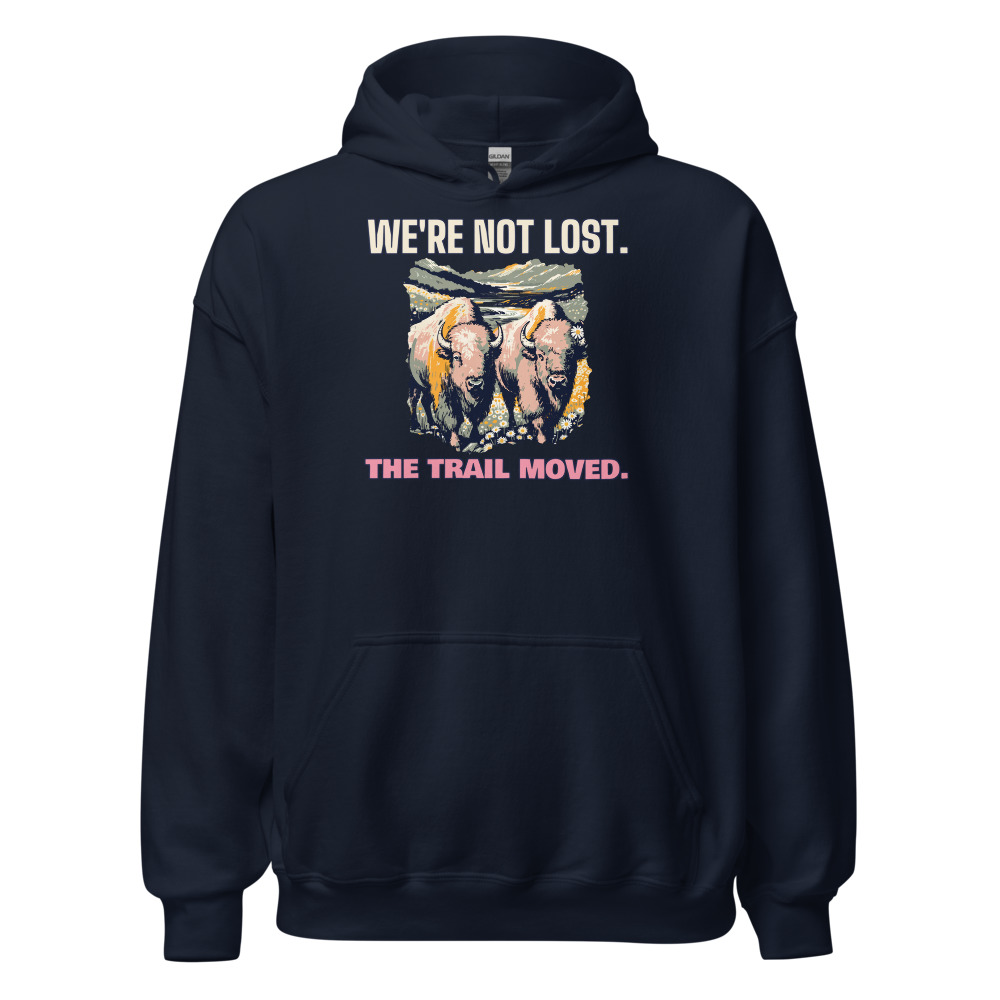
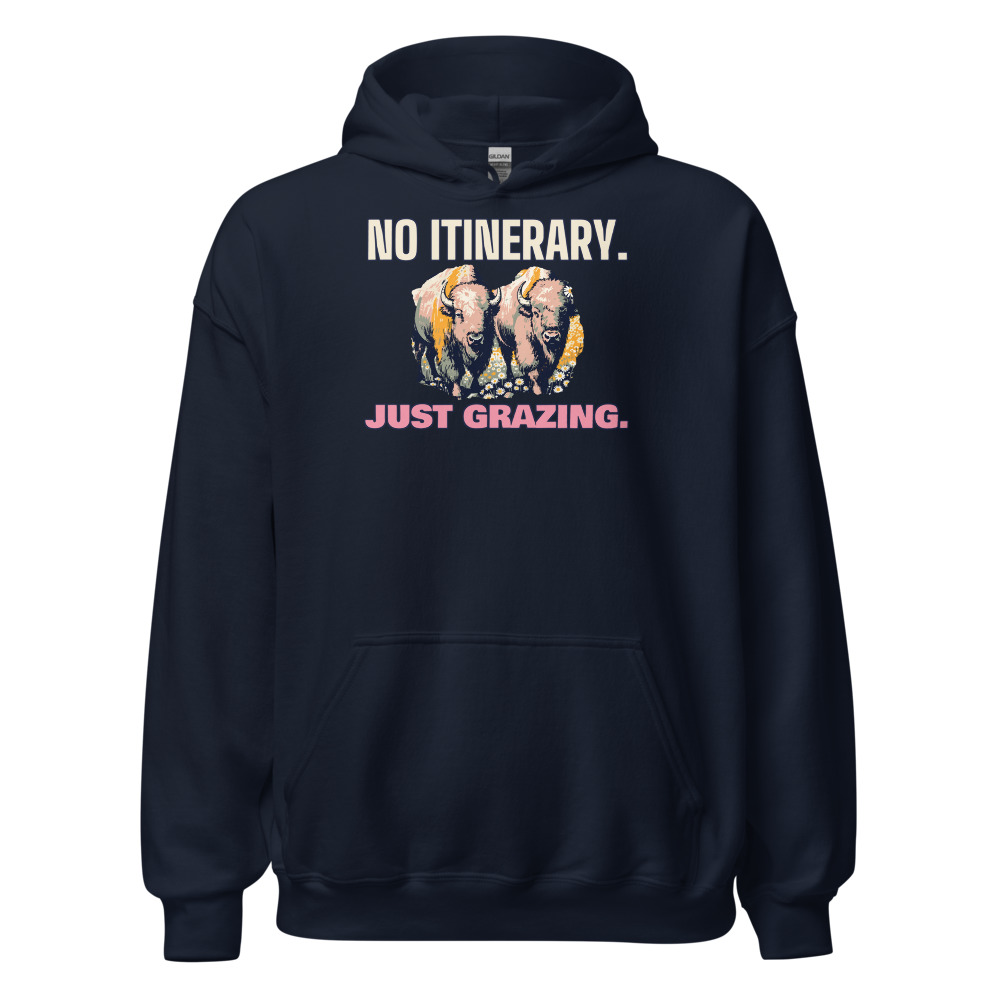
[C] review 508 bison hoodie (round 3)

Changed region(s): [[0.372, 0.217, 0.62, 0.496]]

diff --git a/designs/c508/cut4.py b/designs/c508/cut4.py
@@ -1,0 +1,12 @@
+import numpy as np, cv2
+from PIL import Image, ImageDraw
+im=Image.open('designs/c508/art_raw.png').convert('RGBA'); W,H=im.size; s=W/1836.0
+P=[(40,900),(60,700),(150,610),(300,500),(450,430),(600,405),(700,425),(790,520),(850,640),(900,640),(1000,600),(1100,500),(1200,440),(1300,425),(1420,450),(1550,520),(1650,600),(1720,760),(1800,1000),(1830,1500),(1830,1836),(40,1836)]
+m=Image.new('L',(W,H),0); ImageDraw.Draw(m).polygon([(x*s,y*s) for x,y in P],fill=255)
+a=np.array(im); a[...,3]=np.where(np.array(m)>0,a[...,3],0)
+# drop cream sticker border pixels & specks
+r,g,b=a[...,0].astype(int),a[...,1].astype(int),a[...,2].astype(int)
+al=(a[...,3]>40).astype(np.uint8); n,l,st,_=cv2.connectedComponentsWithStats(al,8)
+for i in range(1,n):
+    if st[i,4]<8000: a[l==i,3]=0
+Image.fromarray(a).save('designs/c508/art_cut4.png'); print(W,H)

diff --git a/designs/c508/make4.py b/designs/c508/make4.py
@@ -1,0 +1,9 @@
+import sys; sys.path.insert(0,'.')
+from designs.lib import *
+W=3142
+art=Image.open('designs/c508/art_rag4.png').convert('RGBA'); art=art.crop(art.getbbox()); art=art.resize((int(art.width*1.2),int(art.height*1.2)),Image.LANCZOS)
+DK=(26,34,66,255); PINK=(244,150,170,255); DPINK=(184,62,98,255); GOLD=(236,170,52,255)
+for tag,c1,k1,c2,k2,bg in (('sand',DK,CREAM,DPINK,CREAM,(214,196,160,255)),('navy',CREAM,DK,PINK,DK,(38,50,88,255))):
+    h1=line("NO ITINERARY.",'big',0.97,W,c1,k1,kw=27); h2=line("JUST GRAZING.",'bowlby',0.985,W,c2,k2,kw=29)
+    print(tag,'headline px',h1.width,'punch px',h2.width,'heights',h1.height,h2.height,'art',art.size)
+    out=lockup(art,W,[h1],[h2],f'508-v3-graze-{tag}',{tag:bg}); print(out.size,out.height/out.width)

diff --git a/docs/pipeline/508-national-park-hoodie-two-queens-roaming.md b/docs/pipeline/508-national-park-hoodie-two-queens-roaming.md
@@ -1,4 +1,4 @@
-status: REDO
+status: REVIEW
 lane: C
 type: new
 id: 508
@@ -36,3 +36,4 @@ kd: 34
 - 2026-10-18 17:22 UTC director: QUALITY RESET grade C (new line + type), REDO. The product stays ACTIVE (same handle, URL, title keyword). 1. Line (R3.12, quality-reset 'Lines'): "TWO QUEENS ROAMING / our natural environment": Describes picture, insider sentiment; no laugh. Write 5 candidates, keep the one a stranger laughs at in 3 seconds without backstory; kill lines that only describe the picture; if none of the 5 is funny, PARK it. 2. Quality reset type bar (docs/backlog/quality-reset.md, 'The new bar'): headline at least 90% of the art width, heavy, colors pulled from the art; second line at least 45% of the headline's height, never a thin script on a dark or mid garment; use the lettering as a shape (arch, stacked lockup, words breaking into the art), not a plain bar above and a script line below; no font used on more than 1 in 6 of the last 30 designs. 3. Keep the art if it carries the new line, else one new illustration (R4/R5). New print means a new cover per R6.10, copy line one rewritten for the new joke (R8.3), and a fresh review sheet (R7.7). While quality-reset.md says PAUSED, only lane A builds, and only the samples step 2 names.
 - 2026-10-20 09:01 UTC builder [C]: REDO new line + type (grade C; title card 7i done). 5 candidates, compared with Politely, No., Main Character, Background Energy and Plot Twist: I Stayed In: "WE'RE NOT LOST. / THE TRAIL MOVED." (kept: two friends who never admit a wrong turn, the bison pair is the duo; works for a girls' trip), "TWO QUEENS ROAMING / our natural environment" (old), "WE CAME FOR THE VIEW. WE STAYED FOR THE SNACKS.", "WALK IT OFF. WITH ME.", "THE HERD HAS OPINIONS". Same bison-and-wildflowers art at 130%; its rounded-rectangle card edge (it was a clean framed rectangle in the old print) is carved into worn, uneven edges with designs/rough2.py (depth 110) so no panel reads at phone size (R4.1). Measured ink widths (card 7h): headline WE'RE NOT LOST. 3042 px / punch THE TRAIL MOVED. 3102 px (102%). Big Shoulders Display Black headline, Bowlby One punch. Light-file (R5.3.8): Sand file 1090268565 (headline navy with a cream keyline, punch berry pink), Navy file 1090268624 (headline cream with a navy keyline, punch dusty rose); docs/print-files/508-v2-trail-sand.png / -navy.png; print 3142 x 3043, FW 1500 TOP 0 (about 1,450 px), 12/12 relinked (verified on the API). 2 fronts replaced in place, read at phone size. Title set to "Women's National Park – We're Not Lost, the Trail Moved Hoodie" (handle unchanged); copy, FAQ ink sentence and SEO rewritten; handle in retired-covers.json. Plain product shot. fal $0.
 - 2026-10-20 09:20 UTC director: REDO from docs/review/508.jpg. 1) R13.3 / builder card 7j: THE TRAIL MOVED. copies #503's live punch THE TREES MOVED. (same 'it moved, not me' excuse). Write five new lines for the two bison (the old Two Queens Roaming angle: two women, a road trip, bison traffic); none ending in MOVED, SORRY or BOOKED. 2) R4.1: the bison meadow is cut as a square block with straight sides; on Sand it reads as a photo panel. Cut the scene to the two bison and the flowers in front of them, let the sky and hills go, ragged edges on every side (scripts/ragged-edge.py).
+- 2026-10-20 12:50 UTC builder [C]: REDO round 3 per the director's 09:20 note. (1) Line: five new lines for the two bison, none ending in MOVED/SORRY/BOOKED and not reusing #510's bison traffic: 'NO ITINERARY. / JUST GRAZING.' (kept: two friends on a park trip with no plan, the bison are literally grazing), 'GIRLS' TRIP. / NO ONE IS DRIVING.', 'OUR HERD. / OUR RULES.', 'WE'RE THE TRAFFIC.', 'THE HERD HAS OPINIONS'. Grep of docs/pipeline for 'no itinerary' and 'just grazing': no other product. (2) R4.1: bison meadow cut to the two bison and the flowers in front (sky, mountains and river removed, designs/c508/cut4.py), outer edge worn on every side with rough2 depth 90; no block at phone size on Sand or Navy. Ink widths (card 7h): headline NO ITINERARY. 3027 px / punch JUST GRAZING. 3097 px (102%). Light-file: Sand file 1090324523 (headline navy with cream keyline, punch berry), Navy file 1090324555 (cream/dusty rose); docs/print-files/508-v3-graze-sand.png / -navy.png; print 3142 x 2460, FW 1500 TOP 0, 12/12 relinked (verified on the API). Fronts replaced in place. Title set to 'Women's National Park – No Itinerary, Just Grazing Hoodie' (handle unchanged), copy, FAQ and SEO rewritten for the new line, alts updated. fal $0.

diff --git a/docs/intake-log.md b/docs/intake-log.md
@@ -1,6 +1,7 @@
 2026-10-20 11:35 UTC — [B] Builder run (cold-weather): no buildable cold-weather item. Only #498 embroidered crew is REDO and its note is unchanged since the 06:20 release (R3.14 re-grade needed from the director); every other lane B item is a tee. Nothing built, fal $0. Lock released.
 2026-10-20 11:40 UTC — [D] Director run: inbox nothing new. 6 LIVE (cap): #284 #319 #332 #362 #366 #378, audit PASS. Reviewed 10 new redos: 5 approved and held (#417 #507 #573 #588 #616), 5 REDO (#408 #447 subject too small, builder card 7l; #482 DIDN"T glyph + tiny caption; #545 leftover specks; #575 type over the bench). Lane E brief #717 beekeeping (1,300/KD 23); READY A/B/C/E 12 each. No Telegram (digest is the first run after 12:00 UTC).
 RUNNING lane C since 2026-10-20 11:05 UTC
+2026-10-20 12:50 UTC — [C] Builder run: redid #508 bison hoodie round 3 (new line NO ITINERARY. / JUST GRAZING., bison cut free of the meadow block, new title). REVIEW. fal $0.
 2026-10-20 12:20 UTC — [C] Builder run: redid #509 Swipe Right zip hoodie round 3 (canyon block broken into free-form shapes). REVIEW. fal $0.
 2026-10-20 11:50 UTC — [C] Builder run: redid #507 My Type Geothermally Active hoodie round 4 (forest band removed, MY TYPE? widened). REVIEW. fal $0.
 RUNNING lane E since 2026-10-20 10:50 UTC
